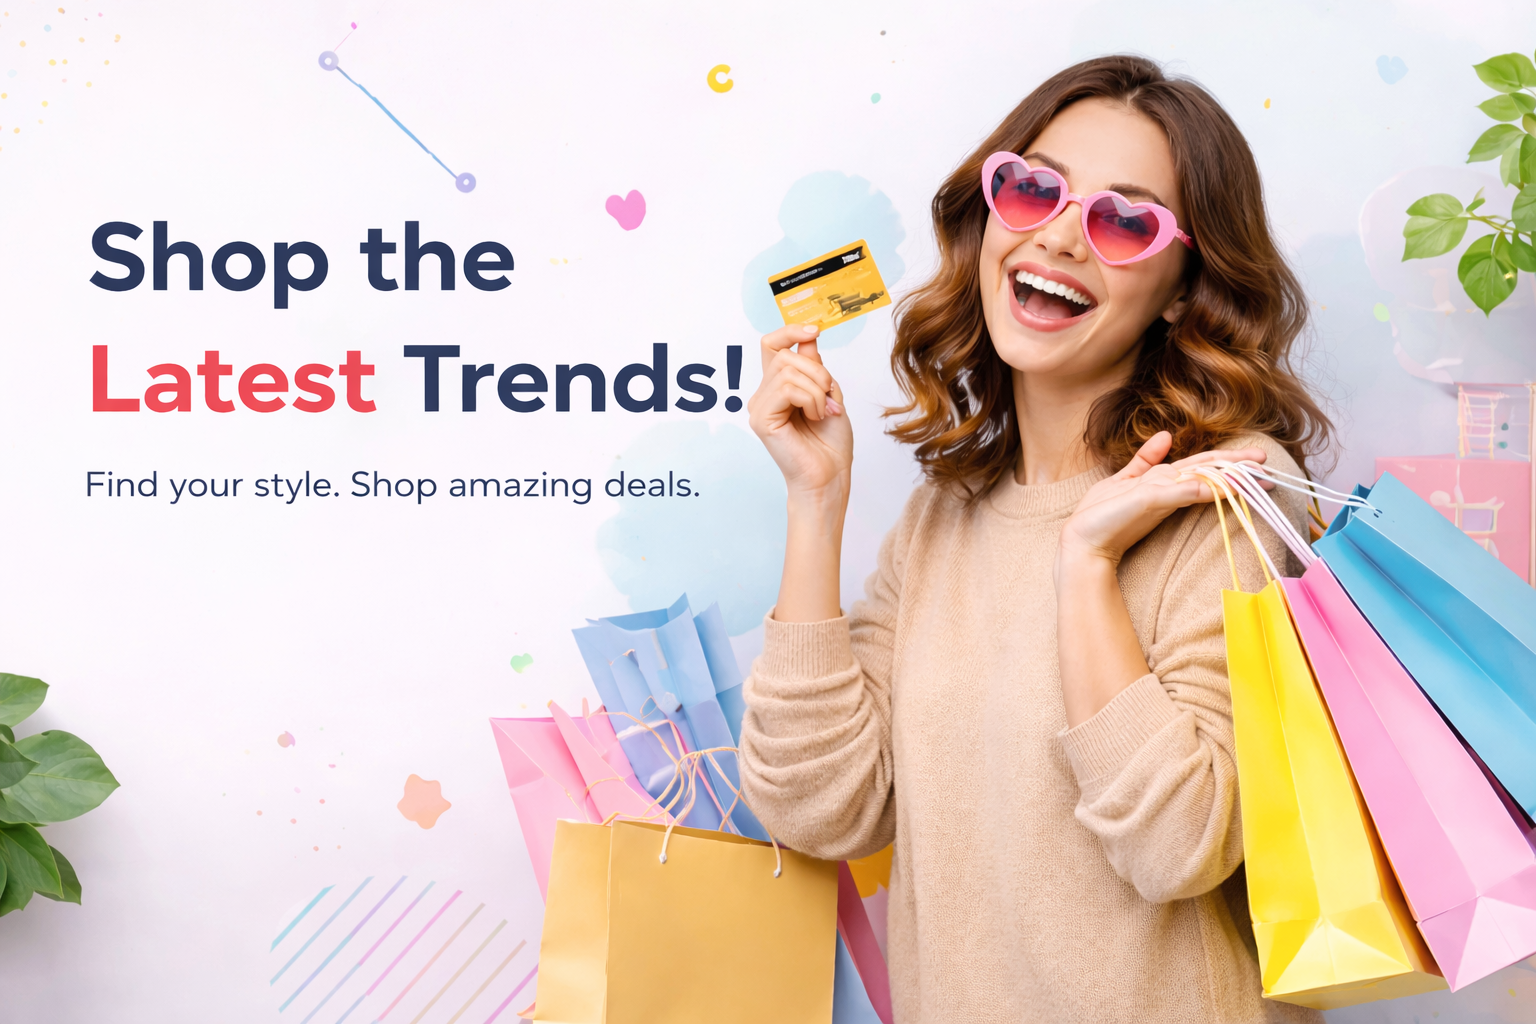
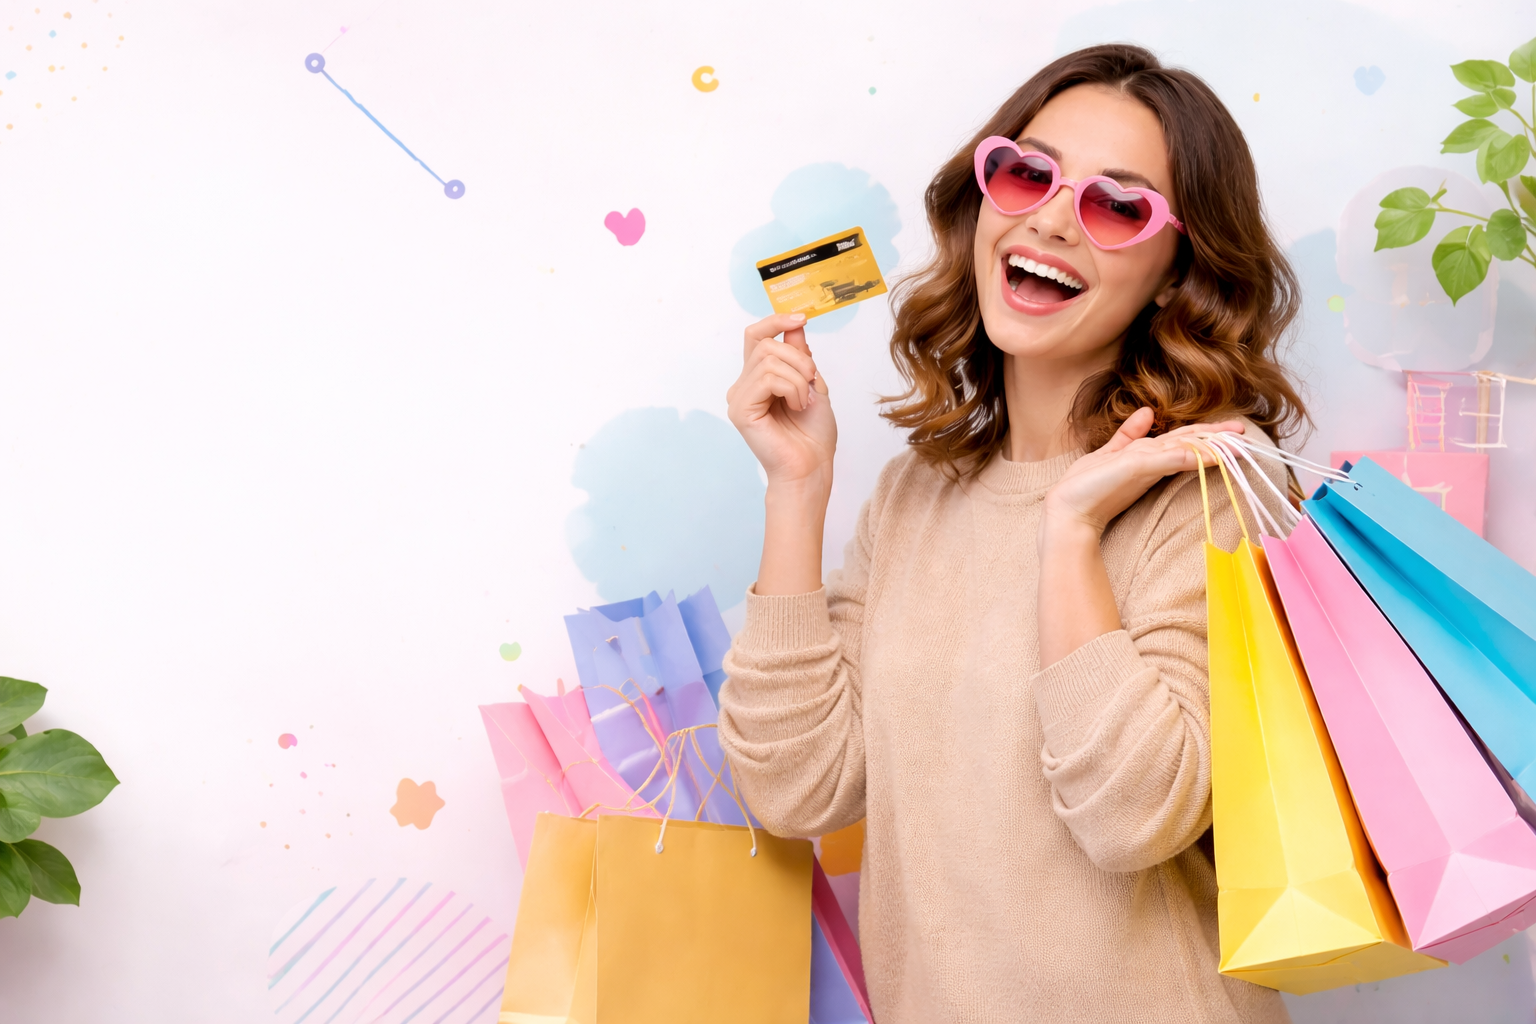
Making the UI better

diff --git a/src/components/Hero.jsx b/src/components/Hero.jsx
@@ -1,42 +1,38 @@
-import Container from "./Container";
 import attractionImg from "../assets/styles/Shopping.png";
 
 export default function Hero() {
   return (
-    <section className="relative bg-gradient-to-br from-indigo-600 to-purple-600 text-white overflow-hidden">
-      <Container className="relative z-10 py-32 grid md:grid-cols-2 gap-16 items-center">
-        
-        {/* LEFT CONTENT */}
-        <div>
-          <h1 className="text-5xl font-extrabold leading-tight mb-6">
+    <section
+      className="relative h-[720px] flex items-center"
+      style={{
+        backgroundImage: `url(${attractionImg})`,
+        backgroundSize: "cover",
+        backgroundPosition: "center",
+        backgroundRepeat: "no-repeat",
+      }}
+    >
+      {/* FULL WIDTH WRAPPER */}
+      <div className="relative z-10 w-full px-6 md:px-24 lg:px-32">
+        <div className="max-w-xl text-left">
+          <h1 className="text-5xl font-extrabold leading-tight text-black mb-6">
             Smart Shopping <br /> Starts with Cartly
           </h1>
 
-          <p className="text-lg opacity-90 mb-10 max-w-lg">
-            Discover premium electronics, seamless checkout, and fast delivery —
+          <p className="text-lg text-black/90 mb-10">
+            Discover premium electronics, seamless checkout, and fast delivery
             all in one modern platform.
           </p>
 
           <div className="flex gap-4">
-            <button className="bg-white text-indigo-600 px-8 py-3 rounded-lg font-semibold hover:scale-105 transition">
+            <button className="bg-indigo-600 text-black px-8 py-3 rounded-full font-semibold hover:scale-105 transition">
               Shop Now
             </button>
-            <button className="border border-white/40 px-8 py-3 rounded-lg hover:bg-white/10 transition">
+            <button className="text-black font-medium hover:underline">
               Learn More
             </button>
           </div>
         </div>
-
-        {/* RIGHT IMAGE (INSIDE BLUE AREA) */}
-        <div className="hidden md:flex justify-center items-center">
-          <img
-            src={attractionImg}
-            alt="Shopping Illustration"
-            className="max-h-[460px] w-auto object-contain drop-shadow-2xl"
-          />
-        </div>
-
-      </Container>
+      </div>
     </section>
   );
 }
